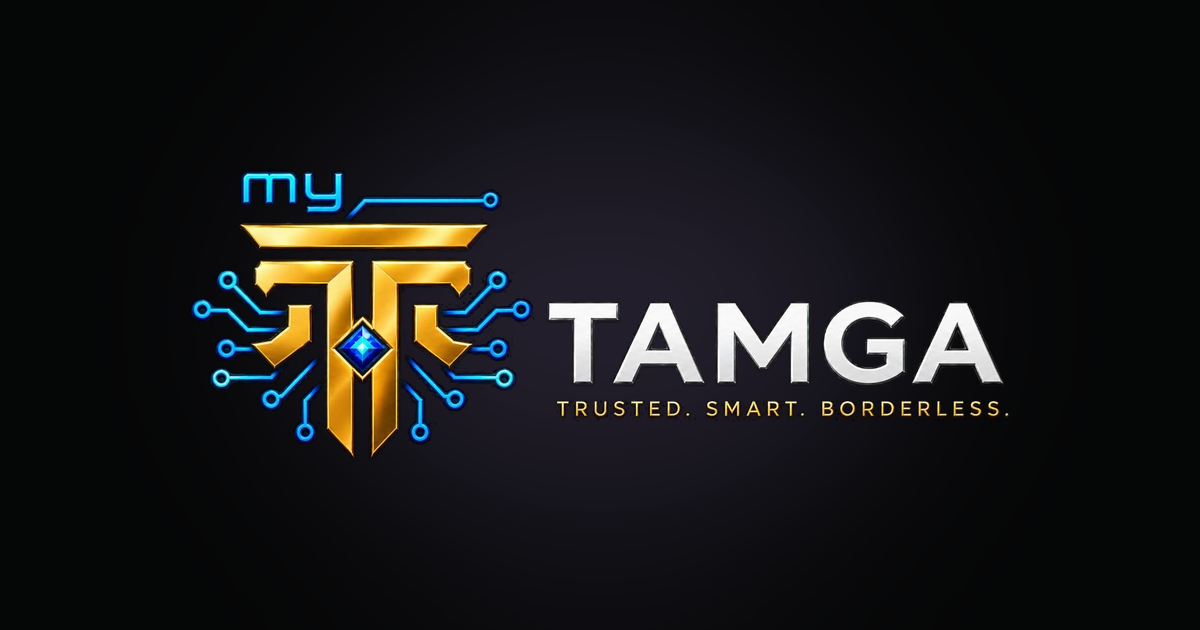
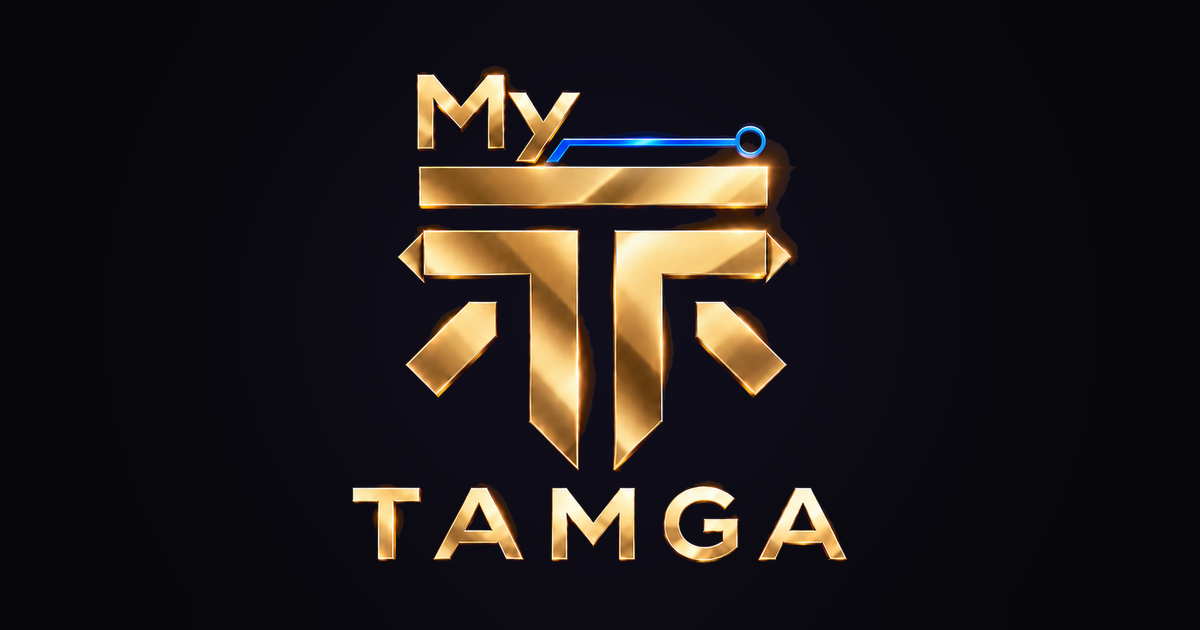
feat(brand): новый логотип MyTamga вместо прежнего знака
- Логотип владельца (My + знак + синяя линия + TAMGA) вырезан из чёрного
  фона; два варианта одной геометрии: со свечением для тёмной темы и без
  внешнего свечения для светлой (там свечение даёт грязную кайму).
- Шапка и заставка показывают полный логотип через BrandLogo; название
  текстом и точка рядом убраны — название есть в логотипе.
- Иконки вкладки, иконка iPhone и превью ссылки сделаны из нового логотипа.
- Прежний знак tamga-symbol.png удалён; DESIGN.md обновлён.

Changed region(s): [[0.1542, 0.0905, 0.8325, 0.9048]]

diff --git a/components/site-header.tsx b/components/site-header.tsx
@@ -1,7 +1,7 @@
 "use client";
 
 import { Menu, X } from "lucide-react";
-import Image from "next/image";
+import { BrandLogo } from "@/components/brand-logo";
 import { useCallback, useEffect, useRef, useState } from "react";
 
 import { CinematicThemeSwitcher } from "@/components/ui/cinematic-theme-switcher";
@@ -76,20 +76,9 @@ export function SiteHeader({
         <div className="grid h-20 grid-cols-[1fr_auto_1fr] items-center px-[var(--gutter)] lg:h-24">
           <a
             href={`/${locale}#hero`}
-            className="site-brand justify-self-start text-lg font-semibold tracking-[-0.02em] sm:text-xl lg:text-2xl"
+            className="site-brand justify-self-start"
           >
-            {/* Знак, а не полный логотип: серебряное «TAMGA» из полного
-                логотипа пропадает на светлой теме, а подпись под ним на этой
-                высоте не читается. Название остаётся текстом рядом. */}
-            <Image
-              src="/brand/tamga-symbol.png"
-              alt=""
-              width={219}
-              height={177}
-              loading="eager"
-              className="h-11 w-auto sm:h-12 lg:h-16"
-            />
-            MyTamga
+            <BrandLogo className="h-14 sm:h-16 lg:h-[4.5rem]" />
           </a>
 
           <nav

diff --git a/components/brand-logo.tsx b/components/brand-logo.tsx
@@ -1,0 +1,32 @@
+import Image from "next/image";
+
+import { cn } from "@/lib/utils";
+
+/**
+ * Логотип MyTamga. Два файла: на тёмной теме — с золотым свечением, на светлой —
+ * без него (свечение на светлом фоне читается как грязная кайма). Какой виден,
+ * решает CSS по [data-theme], который выставляется до первой отрисовки, — так
+ * логотип не мигает при загрузке.
+ */
+export function BrandLogo({ className }: { className?: string }) {
+  return (
+    <>
+      <Image
+        src="/brand/mytamga-logo.png"
+        alt="MyTamga"
+        width={479}
+        height={480}
+        loading="eager"
+        className={cn("brand-logo brand-logo--dark w-auto", className)}
+      />
+      <Image
+        src="/brand/mytamga-logo-light.png"
+        alt="MyTamga"
+        width={479}
+        height={480}
+        loading="eager"
+        className={cn("brand-logo brand-logo--light w-auto", className)}
+      />
+    </>
+  );
+}

diff --git a/components/site-preloader.tsx b/components/site-preloader.tsx
@@ -1,6 +1,6 @@
 "use client";
 
-import Image from "next/image";
+import { BrandLogo } from "@/components/brand-logo";
 import { useEffect, useState } from "react";
 
 import { LiquidLoading } from "@/components/ui/liquid-loader";
@@ -104,17 +104,8 @@ export function SitePreloader({ loadingLabel }: { loadingLabel: string }) {
       aria-live="polite"
     >
       <LiquidLoading />
-      {/* Знак из приложения рядом с названием — то же сочетание, что в шапке. */}
-      <p className="site-brand text-base font-semibold tracking-[-0.02em]">
-        <Image
-          src="/brand/tamga-symbol.png"
-          alt=""
-          width={219}
-          height={177}
-          loading="eager"
-          className="h-16 w-auto sm:h-20"
-        />
-        MyTamga
+      <p className="site-brand">
+        <BrandLogo className="h-36 sm:h-44" />
       </p>
       <span className="sr-only">{loadingLabel}</span>
     </div>

diff --git a/app/globals.css b/app/globals.css
@@ -207,12 +207,19 @@ body {
   transition: opacity 200ms ease;
 }
 
-.site-brand::after {
-  width: 0.3rem;
-  height: 0.3rem;
-  border-radius: 50%;
-  background: var(--accent);
-  content: "";
+/* Логотип: на светлой теме — вариант без свечения. */
+.brand-logo--light {
+  display: none;
+}
+
+:root[data-theme="light"] .brand-logo--dark {
+  display: none;
+}
+
+:root[data-theme="light"] .brand-logo--light {
+  display: block;
+  /* Золото на кремовом фоне мало контрастно — лёгкая тень отделяет знак. */
+  filter: drop-shadow(0 1px 1.5px rgb(60 40 10 / 0.28));
 }
 
 .site-brand:hover {

diff --git a/DESIGN.md b/DESIGN.md
@@ -334,22 +334,23 @@ provider prints the sign-in code to the API console.
 
 ## Brand assets
 
-- Sources are the app's own files in `apps/mobile/assets/` of the application
-  repository; nothing was redrawn. They are raster PNGs — a transparent SVG of
-  the logo still does not exist and would be better everywhere below.
-- The site uses the gold symbol (`tamga-symbol.png`) beside the name set in
-  text, in the header and the preloader. Not the full horizontal logo: its
-  silver "TAMGA" with a light halo all but disappears on the light theme, and
-  its tagline is unreadable at header height. The name stays real text, so it
-  is crisp, translatable to screen readers and searchable.
-- `public/brand/tamga-symbol.png` is trimmed and resized to 192px tall for a
-  mark shown at 28–36px — 46 KB instead of the 648 KB source.
-- The full logo appears only in the link preview (`app/opengraph-image.png`),
-  set on the dark canvas where it reads as designed.
-- The browser tab icon (`app/icon.png`, `app/favicon.ico`) is the gold symbol
-  on transparency, legible on light and dark tab bars. The iPhone home screen
-  icon (`app/apple-icon.png`) is the app's own square icon, because iOS needs
-  an opaque square and a visitor should see the same icon as the app.
+- One source: the owner's logo of 15.10.2026 — gold "My", the tamga mark, the
+  blue circuit line and "TAMGA", rendered on black. It replaces every earlier
+  mark; the previous symbol and the circuit-board logo are retired. A
+  transparent SVG still does not exist and would be better everywhere below.
+- The logo is cut out of its black background by brightness (the glow keeps a
+  soft alpha edge) and trimmed to the lockup. Two files, the same geometry:
+  `public/brand/mytamga-logo.png` keeps the gold glow for the dark theme;
+  `mytamga-logo-light.png` drops the faint outer glow, which on a light canvas
+  reads as a dirty brown fringe. CSS on `[data-theme]` shows one of them
+  (`components/brand-logo.tsx`), so nothing flickers on load.
+- The header and the preloader show the full lockup with no name set beside
+  it — the name is in the logo; the image carries `alt="MyTamga"`.
+- Link preview (`app/[lang]/opengraph-image.png`): the logo centred on a dark
+  canvas with a soft violet glow. Tab icons (`app/icon.png`, `favicon.ico`) are
+  the lockup on transparency; at 16px its lettering is not legible, by the
+  owner's choice of one logo everywhere. The iPhone icon (`app/apple-icon.png`)
+  is the lockup on near-black, because iOS needs an opaque square.
 - The preview's absolute URL is built from `NEXT_PUBLIC_SITE_URL`; without it
   in production the preview points at localhost.
 
